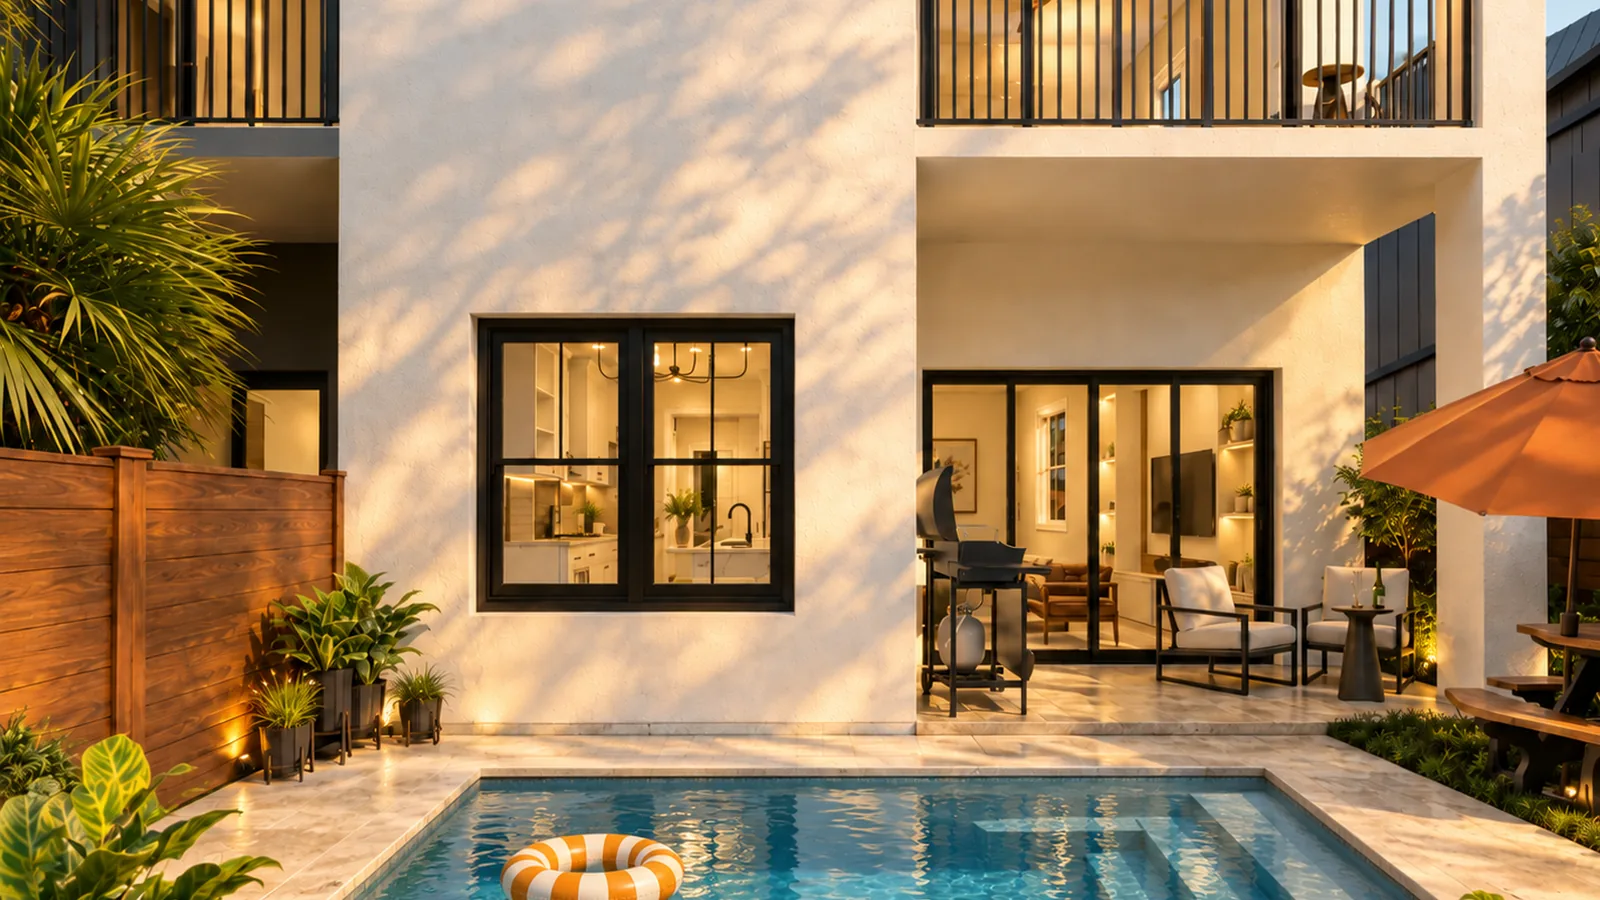
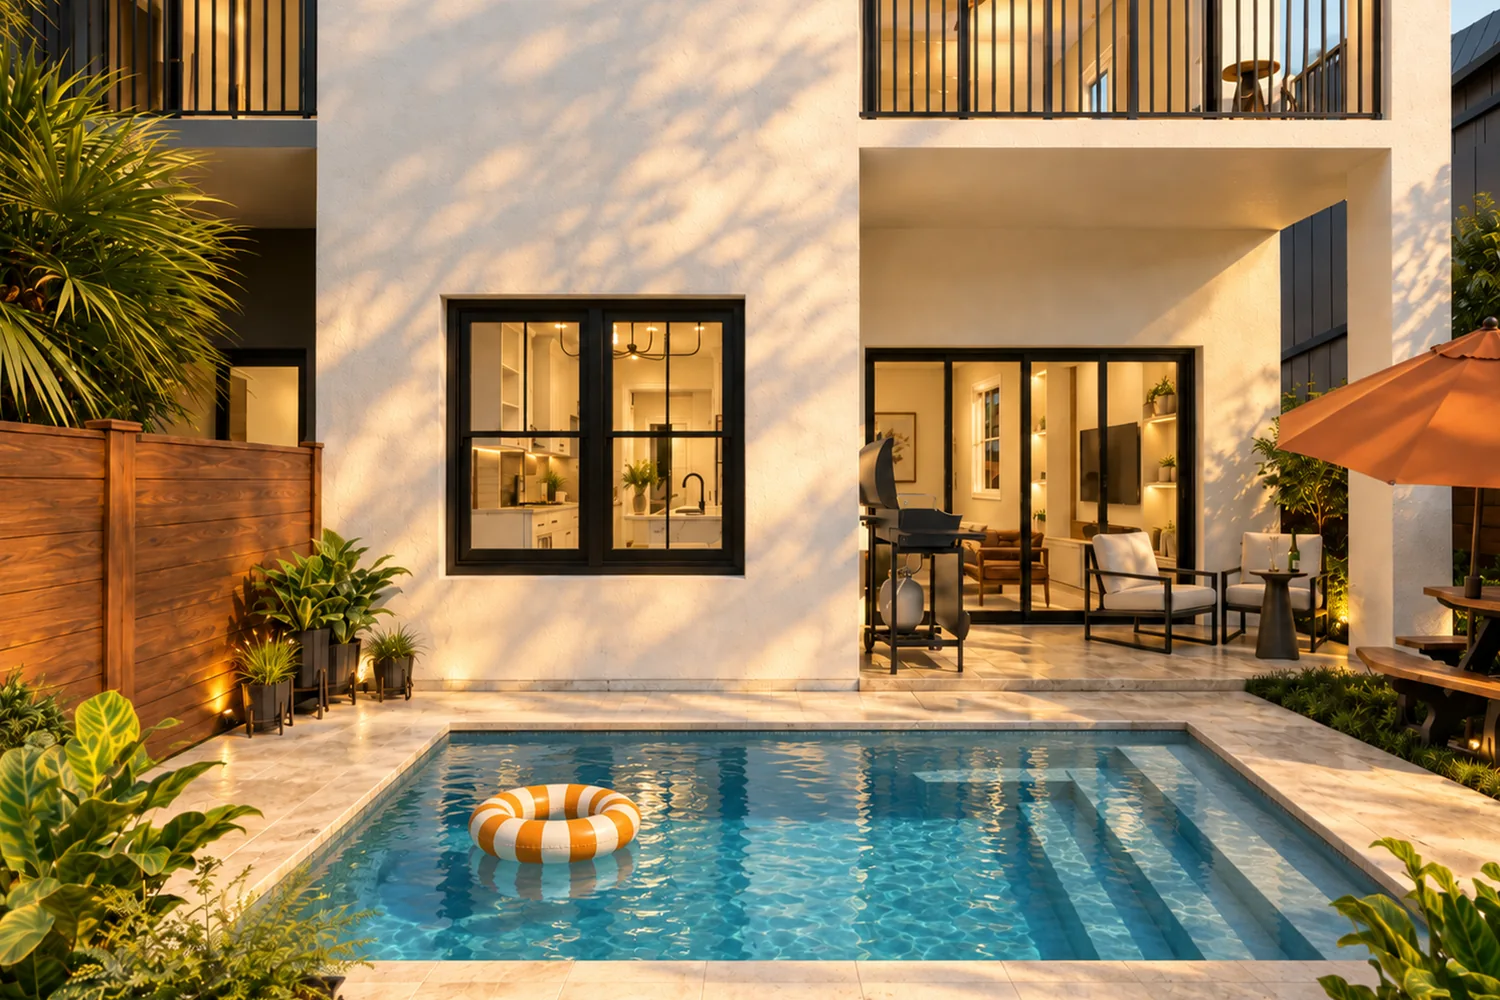
comparador de patio: la piscina sale entera
La toma sin piscina se recorta 130 px por lado para compartir formato 3:2 con la
de con piscina, y las dos se anclan en el mismo punto superior. La de con piscina
llega hasta el bordillo, asi que la piscina ya no se corta.

Queda un 18% de diferencia de escala entre las dos, no un fallo sino aritmetica:
para ver el borde de la piscina hacen falta 1112 px de alto y la toma sin piscina
solo tiene 941. Desaparece el dia que se re-exporte sin piscina a 1448x1086 desde
la misma camara.

diff --git a/index.html b/index.html
@@ -219,7 +219,7 @@ header.on-hero #burger i,header.on-hero #burger i::before,header.on-hero #burger
    se desajuste al cambiar de pantalla. */
 #patio{background:var(--cream-2)}
 .ba{--x:50%;position:relative;margin-top:clamp(30px,4vw,54px);border-radius:6px;overflow:hidden;
-  background:#000;aspect-ratio:16/9;touch-action:pan-y;cursor:ew-resize;user-select:none;
+  background:#000;aspect-ratio:3/2;touch-action:pan-y;cursor:ew-resize;user-select:none;
   -webkit-user-select:none}
 .ba picture{position:absolute;inset:0;display:block}
 .ba img{position:absolute;inset:0;width:100%;height:100%;object-fit:cover;display:block;

diff --git a/plantilla.html b/plantilla.html
@@ -219,7 +219,7 @@ header.on-hero #burger i,header.on-hero #burger i::before,header.on-hero #burger
    se desajuste al cambiar de pantalla. */
 #patio{background:var(--cream-2)}
 .ba{--x:50%;position:relative;margin-top:clamp(30px,4vw,54px);border-radius:6px;overflow:hidden;
-  background:#000;aspect-ratio:16/9;touch-action:pan-y;cursor:ew-resize;user-select:none;
+  background:#000;aspect-ratio:3/2;touch-action:pan-y;cursor:ew-resize;user-select:none;
   -webkit-user-select:none}
 .ba picture{position:absolute;inset:0;display:block}
 .ba img{position:absolute;inset:0;width:100%;height:100%;object-fit:cover;display:block;
